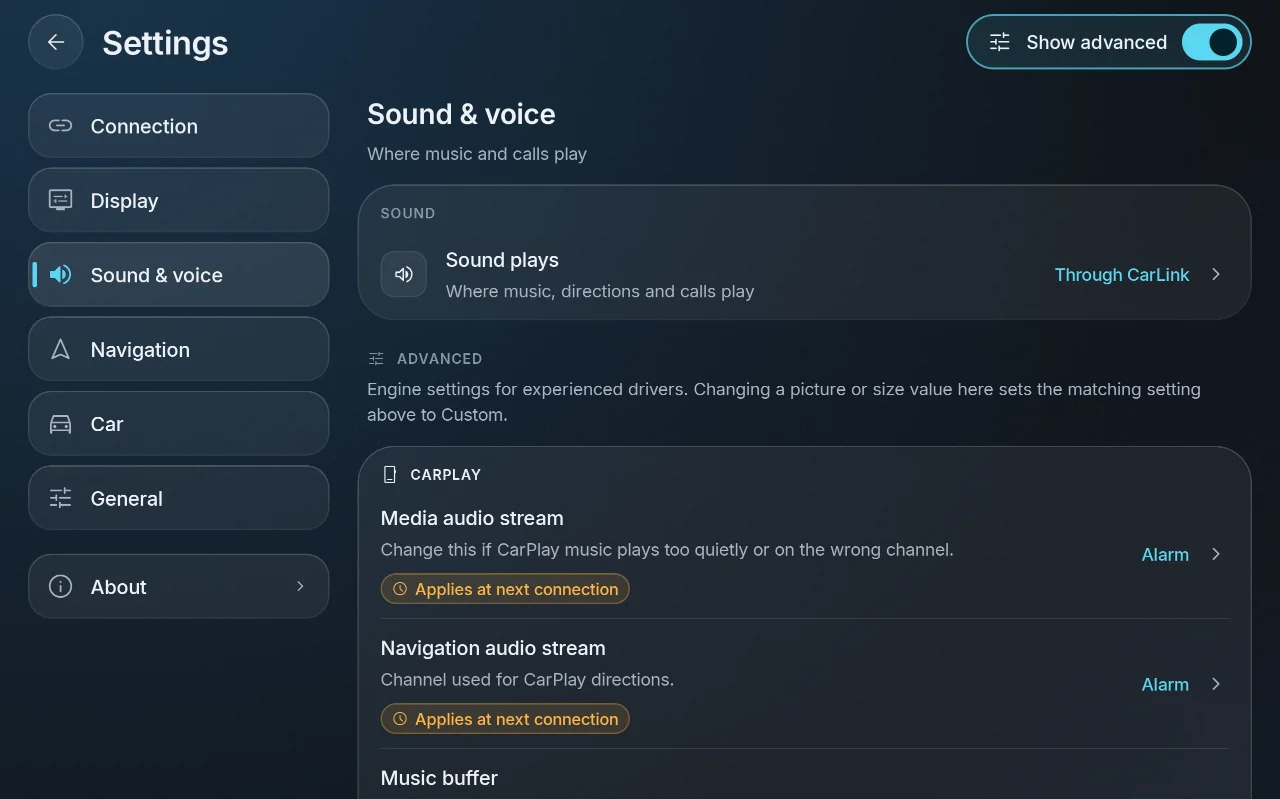
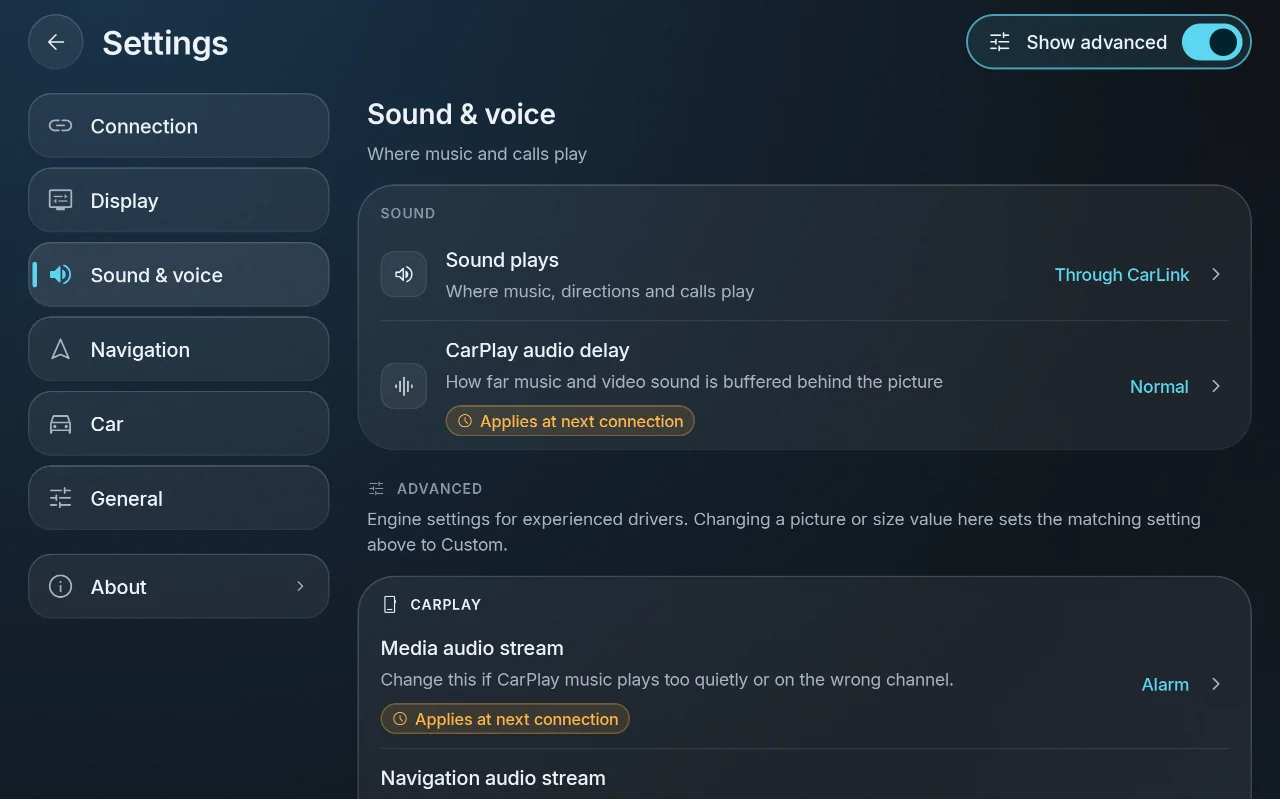
Skip the ignored USB transition for iPhones known to reuse their mode, and add a CarPlay audio delay setting
Wired CarPlay: an iPhone still on the enumeration of a session that just ended was asked to
re-enumerate on every restart, ignored it, and DiPlay reused the mode after 2.5 s, which then
reached the picture in about 1.5 s (tablet, 2026-11-12). DiPlay now remembers per iPhone (USB
serial, prefs carlink_wired_reuse) that this reuse reached an AirPlay session and skips the request
next time. The memory is dropped when the skip is taken and written again only when that reuse
works on the same device node, so a failed reuse asks again on the next start.

Sound: "CarPlay audio delay" (Low / Normal / High) replaces the Advanced "Music buffer" row and
maps through CarPlaySettings onto DiPlay's per-transport music buffer: wired 100/300/500 ms,
wireless 300/300/1000 ms. Until saved, it follows the old Music buffer (500 ms or more is High).

Changed region(s): [[0.2812, 0.4205, 0.9375, 0.8711], [0.2812, 0.9612, 0.4688, 0.9912], [0.875, 0.6909, 0.9375, 0.7209]]

diff --git a/vendor/diplay/shared/src/main/java/com/shilapi/xcertplay/orchestration/CarPlayController.kt b/vendor/diplay/shared/src/main/java/com/shilapi/xcertplay/orchestration/CarPlayController.kt
@@ -260,6 +260,7 @@ class CarPlayController(
     private var permissionPollGeneration = 0
     private var reenumerationAttempts = 0
     @Volatile private var wiredDeviceName: String? = null
+    @Volatile private var wiredReuseCandidate: Pair<String, String>? = null // CarLink: serial to device name, WiredReuseMemory
     private val usbAdbGrantAttempts = mutableSetOf<String>()
     private val pendingUsbAdbGrants = mutableSetOf<String>()
     private var lastReportedStatus: CarPlayStatus? = null
@@ -406,6 +407,13 @@ class CarPlayController(
             wiredSessionActive = true
             wiredStartWatchdog?.sessionActive()
             if (config.transport == CarPlayTransport.WIRED) WiredStuckReset.sessionReached() // CarLink
+            wiredReuseCandidate?.let { (serial, node) -> // CarLink: WiredReuseMemory
+                wiredReuseCandidate = null
+                if (config.transport == CarPlayTransport.WIRED && wiredDeviceName == node) {
+                    WiredReuseMemory.remember(appContext, serial)
+                    debugLog("wired: remembered that this iPhone reuses its mode after a session on the same enumeration")
+                }
+            }
             if (currentCornerMask?.session !== session) currentCornerMask = null
             val replacement = activeSession !== session
             if (replacement) {
@@ -2234,6 +2242,7 @@ class CarPlayController(
         pendingUsbAdbGrants.clear()
         phase = Phase.IPHONE
         reenumerationAttempts = 0
+        wiredReuseCandidate = null // CarLink
         iphoneWaitStartedAt = null
         onStatus(CarPlayStatus.DiscoveringIphone)
         checkIphoneAvailability()
@@ -2373,20 +2382,32 @@ class CarPlayController(
                         val configuration = IphoneCarPlayConfiguration.find(result.device)
                         val carPlayMode = configuration?.let(IphoneCarPlayConfiguration::isCarPlayMode) == true
                         val sessionAlreadyStarted = WiredSessionMemory.startedOn(result.device.deviceName)
+                        // CarLink: WiredReuseMemory; the serial needs the permission granted here.
+                        val reuseSerial = if (sessionAlreadyStarted && carPlayMode) {
+                            runCatching { result.device.serialNumber }.getOrNull()?.takeIf { it.isNotBlank() }
+                        } else null
+                        val reuseRemembered = reuseSerial != null && WiredReuseMemory.knows(appContext, reuseSerial)
                         val action = WiredConfigurationAction.choose(
                             found = configuration != null,
                             carPlayMode = carPlayMode,
                             transitionsTried = reenumerationAttempts,
                             maximumTransitions = MAXIMUM_REENUMERATION_ATTEMPTS,
                             sessionAlreadyStarted = sessionAlreadyStarted,
+                            reuseRemembered = reuseRemembered,
                         )
                         connectionDiagnostic(
                             "USB configuration ready=${configuration != null} " +
                                 "configurationId=${configuration?.id ?: "none"} " +
                                 "reenumerationAttempts=$reenumerationAttempts " +
                                 (if (sessionAlreadyStarted && carPlayMode) "previousSessionOnThisEnumeration=true " else "") +
+                                (if (reuseRemembered) "reuseRemembered=true " else "") + // CarLink
                                 "action=${action.diagnostic}",
                         )
+                        // CarLink: a reuse on the same enumeration (remembered, or after an ignored request) is
+                        // remembered when it reaches an AirPlay session; a remembered one is forgotten until then.
+                        wiredReuseCandidate = reuseSerial?.takeIf { action == WiredConfigurationAction.USE }
+                            ?.also { if (reuseRemembered) WiredReuseMemory.forget(appContext, it) }
+                            ?.let { it to result.device.deviceName }
                         when (action) {
                             WiredConfigurationAction.USE,
                             WiredConfigurationAction.USE_WITHOUT_APPLE_ETHERNET -> openDataPaths(result.device)

diff --git a/carlink-core/src/main/java/com/carlink/core/connection/CarPlaySettings.kt b/carlink-core/src/main/java/com/carlink/core/connection/CarPlaySettings.kt
@@ -1,6 +1,7 @@
 package com.carlink.core.connection
 
 import android.content.Context
+import com.carlink.core.settings.AudioDelay
 import com.carlink.core.settings.DayNight
 import com.carlink.core.settings.InterfaceSize
 import com.carlink.core.settings.Picture
@@ -15,6 +16,7 @@ import com.shilapi.xcertplay.CarPlayHostIntegration
 import com.shilapi.xcertplay.CarPlayNightMode
 import com.shilapi.xcertplay.CarPlayNightSchedule
 import com.shilapi.xcertplay.hud.BydOemClusterHold
+import com.shilapi.xcertplay.media.MediaAudioBuffer
 import com.shilapi.xcertplay.hud.BydOutputSettings
 import com.shilapi.xcertplay.network.CarHotspotSettings
 import com.shilapi.xcertplay.orchestration.ManualHotspotValidation
@@ -44,6 +46,9 @@ data class CarPlayEngineSettings(
     val appearanceKey: String = AppAppearance.DARK.key,
     val rightHandDrive: Boolean,
     val carBluetoothAudio: Boolean,
+    /** DiPlay's music buffer per transport, from [AudioDelay] (`MediaAudioBuffer` presets). */
+    val wiredMediaBufferMillis: Int = MediaAudioBuffer.DEFAULT_MILLIS,
+    val wirelessMediaBufferMillis: Int = MediaAudioBuffer.DEFAULT_MILLIS,
     /** iAP2 location; only with the permission, so the host never asks before a start (F17). */
     val locationReporting: Boolean,
     /** Mirrored as they are, so DiPlay never keeps details CarLink no longer has (F17). */
@@ -150,6 +155,16 @@ object CarPlaySettingsPolicy {
             },
             rightHandDrive = settings.rightHandDrive,
             carBluetoothAudio = settings.soundThroughCarBluetooth,
+            // Wired USB has no radio gaps, so Low can go short; wireless keeps DiPlay's 300 ms floor.
+            wiredMediaBufferMillis = when (settings.audioDelay) {
+                AudioDelay.LOW -> 100
+                AudioDelay.NORMAL -> MediaAudioBuffer.DEFAULT_MILLIS
+                AudioDelay.HIGH -> 500
+            },
+            wirelessMediaBufferMillis = when (settings.audioDelay) {
+                AudioDelay.LOW, AudioDelay.NORMAL -> MediaAudioBuffer.DEFAULT_MILLIS
+                AudioDelay.HIGH -> MediaAudioBuffer.MOST_STABLE_MILLIS
+            },
             // F17: CarLink defaults this on, DiPlay off; without the permission the host would ask
             // before every start and save false, and CarLink would write true again.
             locationReporting = settings.sendCarLocation && fineLocationGranted,
@@ -187,6 +202,8 @@ object CarPlaySettingsPolicy {
         }
         AirPlayPersistence.saveRightHandDrive(context, values.rightHandDrive)
         AirPlayPersistence.saveCarBluetoothAudio(context, values.carBluetoothAudio)
+        AirPlayPersistence.saveMediaBufferMillis(context, wireless = true, millis = values.wirelessMediaBufferMillis)
+        AirPlayPersistence.saveMediaBufferMillis(context, wireless = false, millis = values.wiredMediaBufferMillis)
         AirPlayPersistence.saveLocationReportingEnabled(context, values.locationReporting)
 
         // Car hotspot: name, password and the security they imply. The band and channel are the

diff --git a/carlink-core/src/main/java/com/carlink/core/settings/UnifiedSettings.kt b/carlink-core/src/main/java/com/carlink/core/settings/UnifiedSettings.kt
@@ -1,6 +1,7 @@
 package com.carlink.core.settings
 
 import android.content.Context
+import com.shilapi.xcertplay.AirPlayPersistence
 
 /**
  * The settings a driver sets once for both CarPlay and Android Auto (design/REBUILD_PLAN.md,
@@ -21,6 +22,8 @@ data class UnifiedSettings(
     val nightEndMinute: Int = 7 * 60,
     val rightHandDrive: Boolean = false,
     val soundThroughCarBluetooth: Boolean = false,
+    /** How far CarPlay music and video sound is buffered behind the picture ([AudioDelay]). */
+    val audioDelay: AudioDelay = AudioDelay.NORMAL,
     val sendCarLocation: Boolean = true,
     val bydDirections: Boolean = true,
     val showAdvanced: Boolean = false,
@@ -40,9 +43,13 @@ enum class InterfaceSize { SMALL, MEDIUM, LARGE, CUSTOM }
 
 enum class DayNight { AUTOMATIC, DAY, NIGHT, SCHEDULE }
 
+/** CarPlay's music buffer: lower keeps sound in step with the picture, higher rides out Wi-Fi gaps. */
+enum class AudioDelay { LOW, NORMAL, HIGH }
+
 /** Main-process storage for [UnifiedSettings]. */
 class UnifiedSettingsStore(context: Context) {
-    private val prefs = context.applicationContext.getSharedPreferences(PREFS, Context.MODE_PRIVATE)
+    private val appContext = context.applicationContext
+    private val prefs = appContext.getSharedPreferences(PREFS, Context.MODE_PRIVATE)
 
     fun load() = UnifiedSettings(
         connectionMethod = enumOr(prefs.getString("connection_method", null), ConnectionMethod.AUTOMATIC),
@@ -55,6 +62,9 @@ class UnifiedSettingsStore(context: Context) {
         nightEndMinute = prefs.getInt("night_end", 7 * 60),
         rightHandDrive = prefs.getBoolean("right_hand_drive", false),
         soundThroughCarBluetooth = prefs.getBoolean("sound_car_bluetooth", false),
+        // Until saved once, follow the Music buffer an earlier version set in DiPlay (500 ms or 1 s was High).
+        audioDelay = enumOr(prefs.getString("audio_delay", null),
+            if (AirPlayPersistence.loadMediaBufferMillis(appContext, wireless = true) >= 500) AudioDelay.HIGH else AudioDelay.NORMAL),
         sendCarLocation = prefs.getBoolean("send_location", true),
         bydDirections = prefs.getBoolean("byd_directions", true),
         showAdvanced = prefs.getBoolean("show_advanced", false),
@@ -76,6 +86,7 @@ class UnifiedSettingsStore(context: Context) {
             .putInt("night_end", settings.nightEndMinute)
             .putBoolean("right_hand_drive", settings.rightHandDrive)
             .putBoolean("sound_car_bluetooth", settings.soundThroughCarBluetooth)
+            .putString("audio_delay", settings.audioDelay.name)
             .putBoolean("send_location", settings.sendCarLocation)
             .putBoolean("byd_directions", settings.bydDirections)
             .putBoolean("show_advanced", settings.showAdvanced)

diff --git a/carlink-core/src/test/java/com/carlink/core/connection/CarPlaySettingsTest.kt b/carlink-core/src/test/java/com/carlink/core/connection/CarPlaySettingsTest.kt
@@ -1,6 +1,7 @@
 package com.carlink.core.connection
 
 import android.app.Application
+import com.carlink.core.settings.AudioDelay
 import com.carlink.core.settings.DayNight
 import com.carlink.core.settings.InterfaceSize
 import com.carlink.core.settings.Picture
@@ -55,6 +56,20 @@ class CarPlaySettingsTest {
         assertNull(custom.displayScalePercent); assertNull(custom.fps); assertNull(custom.widthPhysicalMm)
         assertEquals(75, map(UnifiedSettings(picture = Picture.LIGHT)).displayScalePercent)
         assertEquals("system", map().nightModeKey)
+    }
+
+    @Test fun audioDelayMapsToDiPlaysMusicBuffers() {
+        fun buffers(delay: AudioDelay) = map(UnifiedSettings(audioDelay = delay)).let { it.wiredMediaBufferMillis to it.wirelessMediaBufferMillis }
+        assertEquals(100 to 300, buffers(AudioDelay.LOW))
+        assertEquals(300 to 300, buffers(AudioDelay.NORMAL))
+        assertEquals(500 to 1000, buffers(AudioDelay.HIGH))
+        // Every value is one DiPlay keeps (MediaAudioBuffer presets), and it reaches DiPlay's preferences.
+        CarPlaySettingsPolicy.apply(app, map(UnifiedSettings(audioDelay = AudioDelay.LOW)))
+        assertEquals(100, AirPlayPersistence.loadMediaBufferMillis(app, wireless = false))
+        assertEquals(300, AirPlayPersistence.loadMediaBufferMillis(app, wireless = true))
+        CarPlaySettingsPolicy.apply(app, map(UnifiedSettings(audioDelay = AudioDelay.HIGH)))
+        assertEquals(500, AirPlayPersistence.loadMediaBufferMillis(app, wireless = false))
+        assertEquals(1000, AirPlayPersistence.loadMediaBufferMillis(app, wireless = true))
     }
 
     @Test fun locationOnlyWithThePermission() {

diff --git a/app/src/main/java/com/carlink/app/ui/settings/SettingsModel.kt b/app/src/main/java/com/carlink/app/ui/settings/SettingsModel.kt
@@ -14,6 +14,7 @@ import com.carlink.app.ui.theme.UiProfileMode
 import com.carlink.core.core.Engine
 import com.carlink.core.settings.AdvancedSetting
 import com.carlink.core.settings.AdvancedSettings
+import com.carlink.core.settings.AudioDelay
 import com.carlink.core.settings.ConnectionMethod
 import com.carlink.core.settings.Control
 import com.carlink.core.settings.DayNight
@@ -154,7 +155,7 @@ internal val SettingsCategory.selectedIcon: Int
 /** The bottom sheets Settings opens; saved by [key] so a rotation keeps the sheet open. */
 internal enum class EssentialSheet {
     CONNECTION_METHOD, CAR_HOTSPOT, SAME_WIFI, PICTURE, INTERFACE_SIZE, DAY_NIGHT, NIGHT_START, NIGHT_END,
-    DRIVING_SIDE, SOUND, APPEARANCE, LAYOUT, CARLINK_SIZE, RENDERING, CAR_BRAND, WHEEL_KEYS,
+    DRIVING_SIDE, SOUND, AUDIO_DELAY, APPEARANCE, LAYOUT, CARLINK_SIZE, RENDERING, CAR_BRAND, WHEEL_KEYS,
 }
 
 internal object SheetKey {
@@ -230,6 +231,15 @@ internal fun interfaceSizeLabel(size: InterfaceSize): String = stringResource(
         InterfaceSize.MEDIUM -> R.string.carlink_settings_size_medium
         InterfaceSize.LARGE -> R.string.carlink_settings_size_large
         InterfaceSize.CUSTOM -> R.string.carlink_settings_custom
+    },
+)
+
+@Composable
+internal fun audioDelayLabel(delay: AudioDelay): String = stringResource(
+    when (delay) {
+        AudioDelay.LOW -> R.string.carlink_settings_audio_delay_low
+        AudioDelay.NORMAL -> R.string.carlink_settings_audio_delay_normal
+        AudioDelay.HIGH -> R.string.carlink_settings_audio_delay_high
     },
 )
 

diff --git a/app/src/main/java/com/carlink/app/ui/settings/SettingsSheets.kt b/app/src/main/java/com/carlink/app/ui/settings/SettingsSheets.kt
@@ -66,6 +66,7 @@ import androidx.compose.ui.unit.dp
 import kotlinx.coroutines.launch
 import com.carlink.app.R
 import com.carlink.core.settings.Applies
+import com.carlink.core.settings.AudioDelay
 import com.carlink.core.settings.CarBrand
 import com.carlink.core.settings.VehicleProfile
 import com.carlink.core.settings.ConnectionMethod
@@ -193,6 +194,17 @@ internal fun SettingsSheetHost(key: String?, ui: SettingsUi, actions: SettingsAc
                     R.drawable.carlink_ic_bluetooth),
             ),
             u.soundThroughCarBluetooth, onSelect = { b -> select { it.copy(soundThroughCarBluetooth = b) } }, onDismiss = onDismiss,
+        )
+        EssentialSheet.AUDIO_DELAY -> ChoiceSheet(
+            stringResource(R.string.carlink_settings_audio_delay), stringResource(R.string.carlink_settings_audio_delay_detail), true,
+            AudioDelay.entries.map { a ->
+                Preset(a, audioDelayLabel(a), stringResource(when (a) {
+                    AudioDelay.LOW -> R.string.carlink_settings_audio_delay_low_detail
+                    AudioDelay.NORMAL -> R.string.carlink_settings_audio_delay_normal_detail
+                    AudioDelay.HIGH -> R.string.carlink_settings_audio_delay_high_detail
+                }))
+            },
+            u.audioDelay, onSelect = { a -> select { it.copy(audioDelay = a) } }, onDismiss = onDismiss,
         )
         EssentialSheet.APPEARANCE -> ChoiceSheet(
             stringResource(R.string.carlink_settings_appearance), stringResource(R.string.carlink_settings_appearance_detail), false,

diff --git a/vendor/diplay/shared/src/test/java/com/shilapi/xcertplay/orchestration/WiredConfigurationActionTest.kt b/vendor/diplay/shared/src/test/java/com/shilapi/xcertplay/orchestration/WiredConfigurationActionTest.kt
@@ -53,6 +53,20 @@ class WiredConfigurationActionTest {
         assertFalse(WiredConfigurationAction.fallbackAfterRejection(found = true, carPlayMode = true))
     }
 
+    // CarLink: WiredReuseMemory. An iPhone known to ignore the request on the same enumeration reuses its mode at once.
+    @Test fun aRememberedReuseSkipsTheRequestOnTheSameEnumerationOnly() {
+        assertEquals(WiredConfigurationAction.USE, WiredConfigurationAction.choose(true, true, 0, maximumTransitions = 2,
+            sessionAlreadyStarted = true, reuseRemembered = true))
+        // Without the memory the request path stays, so a failed reuse (memory forgotten) asks again.
+        assertEquals(WiredConfigurationAction.REQUEST_TRANSITION, WiredConfigurationAction.choose(true, true, 0,
+            maximumTransitions = 2, sessionAlreadyStarted = true, reuseRemembered = false))
+        // The memory never stands in for a missing CarPlay mode or configuration.
+        assertEquals(WiredConfigurationAction.REQUEST_TRANSITION, WiredConfigurationAction.choose(true, false, 0,
+            maximumTransitions = 2, sessionAlreadyStarted = true, reuseRemembered = true))
+        assertEquals(WiredConfigurationAction.REQUEST_TRANSITION, WiredConfigurationAction.choose(false, false, 0,
+            maximumTransitions = 2, sessionAlreadyStarted = true, reuseRemembered = true))
+    }
+
     @Test fun theMemoryMatchesOnlyTheSameEnumeration() {
         WiredSessionMemory.clear()
         assertFalse(WiredSessionMemory.startedOn("/dev/bus/usb/001/005"))

diff --git a/carlink-core/src/main/java/com/carlink/core/settings/AdvancedSettings.kt b/carlink-core/src/main/java/com/carlink/core/settings/AdvancedSettings.kt
@@ -153,15 +153,6 @@ object AdvancedSettings {
             "Navigation audio stream", "Channel used for CarPlay directions.",
             Applies.NEXT_CONNECTION, carPlayIntChoice(audioStreams, AirPlayPersistence::loadNavigationAudioChannel,
                 AirPlayPersistence::saveNavigationAudioChannel)),
-        AdvancedSetting("cp_buffer", Engine.CARPLAY, SettingsCategory.SOUND, Tier.ADVANCED,
-            "Music buffer", "A longer buffer rides out Wi-Fi hiccups but adds delay.",
-            Applies.NEXT_CONNECTION, carPlayIntChoice(options(300 to "Short (300 ms)", 500 to "Medium (500 ms)", 1000 to "Long (1 s)"),
-                // DiPlay 0.2.19 keeps separate wired and wireless buffers; this one setting sets both.
-                { c -> AirPlayPersistence.loadMediaBufferMillis(c, wireless = true) },
-                { c, v ->
-                    AirPlayPersistence.saveMediaBufferMillis(c, wireless = true, millis = v)
-                    AirPlayPersistence.saveMediaBufferMillis(c, wireless = false, millis = v)
-                })),
         AdvancedSetting("cp_focus", Engine.CARPLAY, SettingsCategory.SOUND, Tier.ADVANCED,
             "Take audio focus", "Pause the car's own audio while CarPlay plays.",
             Applies.NEXT_CONNECTION, carPlayToggle(AirPlayPersistence::loadAudioFocusEnabled, AirPlayPersistence::saveAudioFocusEnabled)),

diff --git a/vendor/diplay/shared/src/main/java/com/shilapi/xcertplay/orchestration/WiredReuseMemory.kt b/vendor/diplay/shared/src/main/java/com/shilapi/xcertplay/orchestration/WiredReuseMemory.kt
@@ -1,0 +1,24 @@
+package com.shilapi.xcertplay.orchestration
+
+import android.content.Context
+
+/**
+ * CarLink (new file, docs/VENDOR_CHANGES.md): the iPhones, by USB serial number, that ignored the CarPlay mode
+ * request on the enumeration of a session that had just ended and then connected on the mode they kept.
+ *
+ * On the tablet (iPhone, 2026-11-12) every restart on such an enumeration asked again (#335, [WiredSessionMemory]),
+ * the iPhone ignored it, and the reuse after [CarPlayController.SAME_ENUMERATION_WAIT_MILLIS] reached the picture
+ * in about 1.5 s. A remembered iPhone skips the request; it is forgotten when a skip is taken, and remembered
+ * again only when that reuse reaches an AirPlay session, so a failed reuse falls back to the request next time.
+ */
+internal object WiredReuseMemory {
+    private const val PREFS = "carlink_wired_reuse"
+
+    fun knows(context: Context, serial: String): Boolean = prefs(context).getBoolean(serial, false)
+
+    fun remember(context: Context, serial: String) = prefs(context).edit().putBoolean(serial, true).apply()
+
+    fun forget(context: Context, serial: String) = prefs(context).edit().remove(serial).apply()
+
+    private fun prefs(context: Context) = context.getSharedPreferences(PREFS, Context.MODE_PRIVATE)
+}

diff --git a/carlink-core/src/test/java/com/carlink/core/settings/SettingsStoresTest.kt b/carlink-core/src/test/java/com/carlink/core/settings/SettingsStoresTest.kt
@@ -49,6 +49,14 @@ class SettingsStoresTest {
         Picture.entries.forEach { store.save(UnifiedSettings(picture = it)); assertEquals(it, store.load().picture) }
         InterfaceSize.entries.forEach { store.save(UnifiedSettings(interfaceSize = it)); assertEquals(it, store.load().interfaceSize) }
         DayNight.entries.forEach { store.save(UnifiedSettings(dayNight = it)); assertEquals(it, store.load().dayNight) }
+        AudioDelay.entries.forEach { store.save(UnifiedSettings(audioDelay = it)); assertEquals(it, store.load().audioDelay) }
+    }
+
+    @Test fun audioDelayFollowsTheMusicBufferAnEarlierVersionSetUntilSaved() {
+        com.shilapi.xcertplay.AirPlayPersistence.saveMediaBufferMillis(app, wireless = true, millis = 1000)
+        assertEquals(AudioDelay.HIGH, UnifiedSettingsStore(app).load().audioDelay)
+        UnifiedSettingsStore(app).save(UnifiedSettings(audioDelay = AudioDelay.LOW))
+        assertEquals(AudioDelay.LOW, UnifiedSettingsStore(app).load().audioDelay)
     }
 
     @Test fun savingDefaultsAgainClearsEarlierValues() {

diff --git a/vendor/diplay/shared/src/main/java/com/shilapi/xcertplay/orchestration/WiredConfigurationAction.kt b/vendor/diplay/shared/src/main/java/com/shilapi/xcertplay/orchestration/WiredConfigurationAction.kt
@@ -27,9 +27,10 @@ internal enum class WiredConfigurationAction(val diagnostic: String) {
             transitionsTried: Int,
             maximumTransitions: Int,
             sessionAlreadyStarted: Boolean = false,
+            reuseRemembered: Boolean = false, // CarLink: this iPhone ignored the request before and the reuse worked (WiredReuseMemory)
         ) = when {
             // The mode a session DiPlay ended itself left behind takes no new session (#335; WiredSessionMemory).
-            found && carPlayMode && sessionAlreadyStarted && transitionsTried == 0 -> REQUEST_TRANSITION
+            found && carPlayMode && sessionAlreadyStarted && transitionsTried == 0 && !reuseRemembered -> REQUEST_TRANSITION
             found && carPlayMode -> USE
             found && transitionsTried > 0 -> USE_WITHOUT_APPLE_ETHERNET
             transitionsTried < maximumTransitions -> REQUEST_TRANSITION

diff --git a/app/src/main/java/com/carlink/app/ui/settings/SettingsPages.kt b/app/src/main/java/com/carlink/app/ui/settings/SettingsPages.kt
@@ -189,6 +189,10 @@ private fun SoundEssentials(ui: SettingsUi, openSheet: (String) -> Unit) {
             stringResource(if (bluetooth) R.string.carlink_settings_sound_bluetooth else R.string.carlink_settings_sound_carlink),
             { openSheet(SheetKey.of(EssentialSheet.SOUND)) }, description = stringResource(R.string.carlink_settings_sound_detail),
             icon = if (bluetooth) R.drawable.carlink_ic_bluetooth else R.drawable.carlink_ic_volume_up)
+        GroupDivider()
+        ChoiceRow(stringResource(R.string.carlink_settings_audio_delay), audioDelayLabel(ui.unified.audioDelay),
+            { openSheet(SheetKey.of(EssentialSheet.AUDIO_DELAY)) }, description = stringResource(R.string.carlink_settings_audio_delay_detail),
+            icon = R.drawable.carlink_ic_graphic_eq, tags = { NextConnectionTag() })
     }
 }
 
